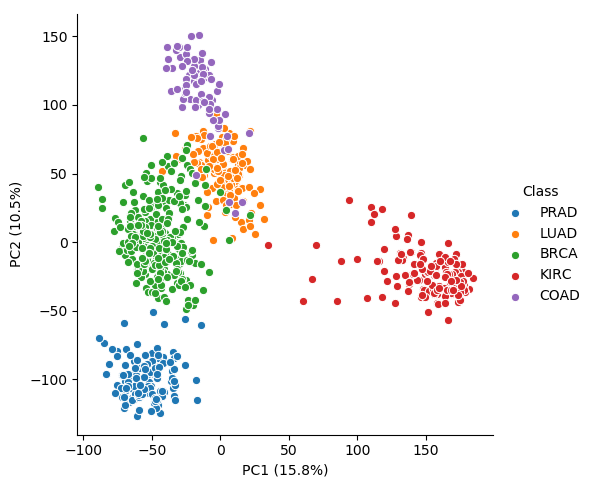
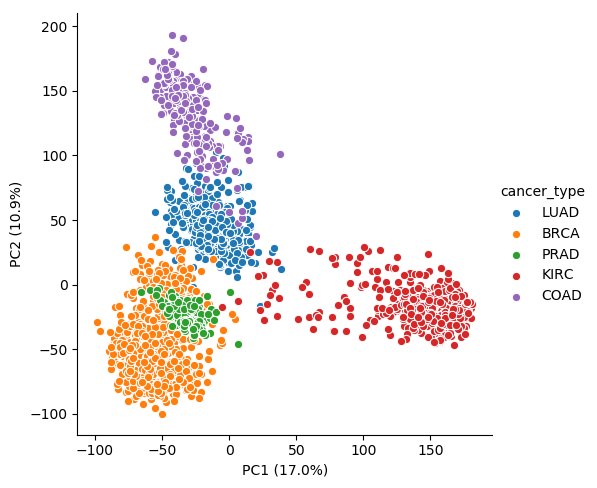
make pca on raw data
log 2 norm
remove outliers

diff --git a/calculate_PCA_raw_data.py b/calculate_PCA_raw_data.py
@@ -8,6 +8,7 @@ from sklearn.feature_selection import SelectKBest
 from sklearn.decomposition import PCA
 import matplotlib
 import matplotlib.pyplot as plt
+from mpl_toolkits.mplot3d import axes3d, Axes3D 
 
 def load_data():
     """Load data from .csv files.
@@ -25,11 +26,13 @@ def load_data():
         list_.append(df)
 
     #expression data
-    df_data = pd.concat(list_, axis = 0, ignore_index = True)
+    df_data = pd.concat(list_, axis = 0, ignore_index = False)
     #labels frame
     df_data_labels = pd.read_csv("data/raw_labels.csv", index_col=0)
     
-    return df_data, df_data_labels
+    df_data = pd.concat([df_data_labels,df_data], axis = 1, join = "inner")
+    
+    return df_data
 
 def process_data_frame(df_data):
     """Remove unwanted columns from dataframe.
@@ -37,25 +40,28 @@ def process_data_frame(df_data):
     
     #finalDf = pd.concat([df_data[['Unnamed: 0']]], axis = 1)
     #remove Unnamed columns from the dataset
-    x = df_data
+    x = df_data.drop(["cancer_type", "gender", "bcr_patient_uuid", "bcr_patient_barcode", "patient_id", "age_at_initial_pathologic_diagnosis"], axis = 1)
     #remove Unnamed column from the labels
-    y = df_data.index
+    # y = df_data.index
+    x += 1
+    x = x.applymap(np.log2)
     
-    return x, y
+    return x
 
-def calculate_PCA(x, y, df_data_labels):
+def calculate_PCA(x, df_data):
     """Calculate n principal components
     
     finalDf: dataframe of pca with labels.
     """
     #PCA selecting the first two components.
-    pca = PCA(n_components=2)
+    pca = PCA(n_components=3)
     principalComponents = pca.fit_transform(x)
     principalDf = pd.DataFrame(data = principalComponents
-                  , columns = ['principal component 1', 'principal component 2'])
+                  , columns = ['principal component 1', 'principal component 2', 'principal component 3'])
+    principalDf = principalDf.set_index(df_data.index.values)
 
     #add class information to the output of PCA
-    finalDf = pd.concat([principalDf, df_data_labels[["cancer_type"]]],axis=1)
+    finalDf = pd.concat([principalDf, df_data[["cancer_type"]]],ignore_index=False, axis = 1)
     
     # 10 components
     pca = PCA(n_components=10)
@@ -105,18 +111,28 @@ def main():
     """Main function.
     """
     #load data
-    df_data, df_data_labels = load_data()
+    df_data = load_data()    
     
+    # print(df_data.describe())
     #process dataframe 
-    x, y = process_data_frame(df_data)
+    x = process_data_frame(df_data)
     
     #determine amount of PC's for analysis
     #TODO 
     #n = calculate_amount_PCs(x)
     
     #calculate PCA 
-    pca, finalDf, all_compon = calculate_PCA(x, y, df_data_labels)
+    pca, finalDf, all_compon = calculate_PCA(x, df_data)
     
+    outliers = []
+    for i in finalDf.index.values:
+        if finalDf.loc[i,"principal component 1"] > 200:
+            outliers.extend([i])
+    
+    x = x.drop(outliers,axis = 0)
+    df_data = df_data.drop(outliers,axis = 0)
+    
+    pca, finalDf, all_compon = calculate_PCA(x, df_data)
     # store_pca_result(all_compon)
     #plot PCA 
     plot_PCA(finalDf, pca)
